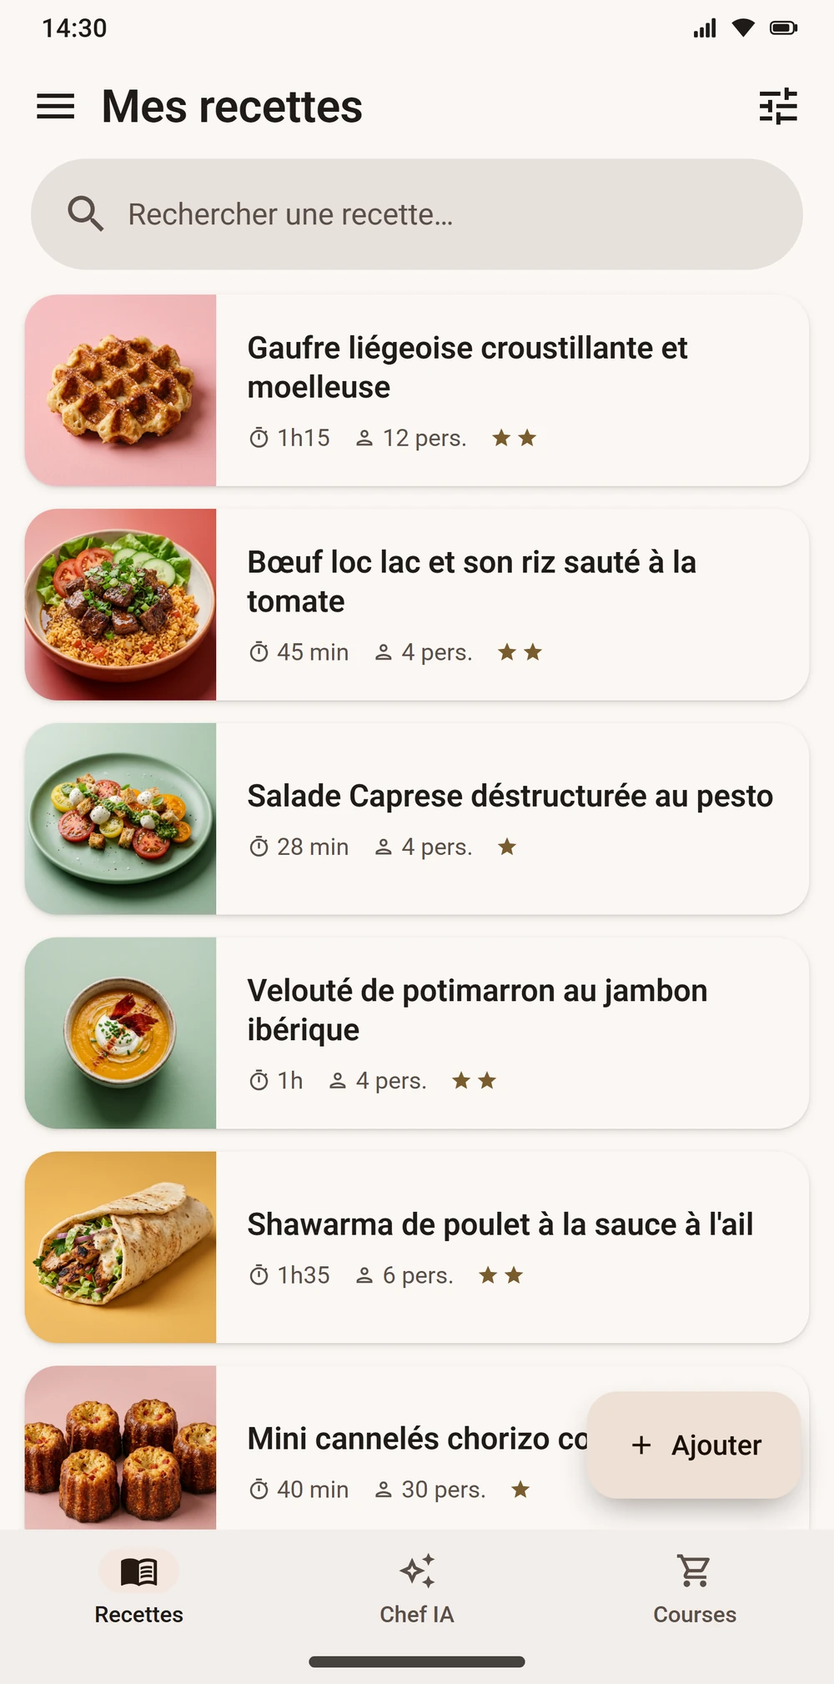
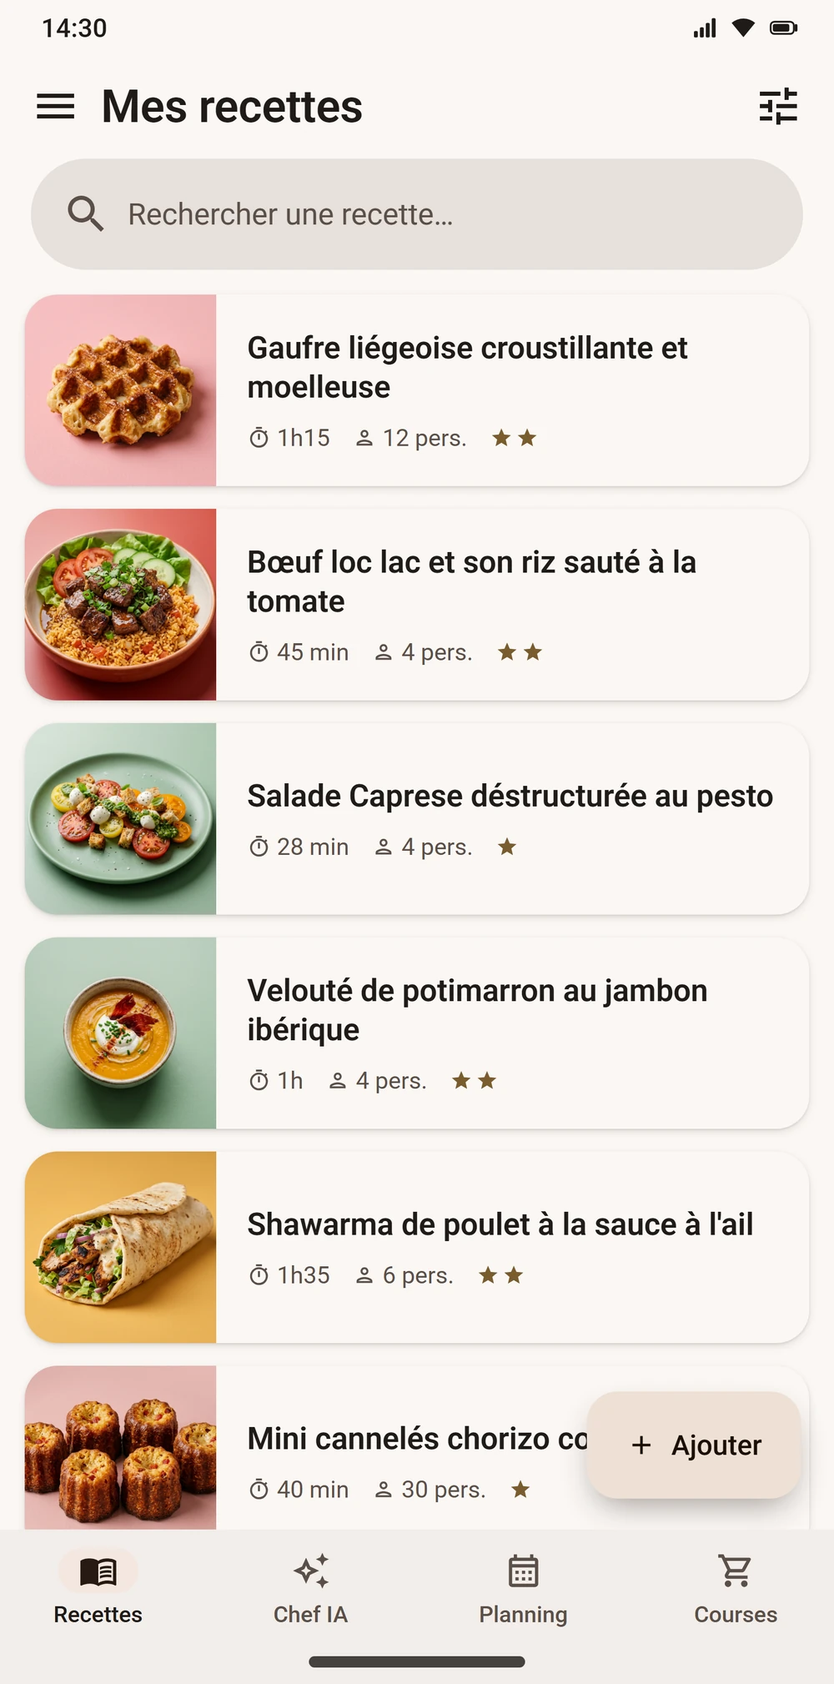
Le site présente le planning et les captures montrent les quatre onglets

diff --git a/it/index.html b/it/index.html
@@ -91,6 +91,7 @@
         "Modifica di una ricetta che hai già, chiesta in linguaggio naturale (vegetariana, senza forno, meno salata), con anteprima delle modifiche e originale conservato",
         "Assistente di cucina IA che conosce la ricetta in corso",
         "Modalità cucina passo dopo passo con timer per ogni passaggio",
+        "Piano pasti settimanale per pranzo e cena, composto con le tue ricette e collegato alla lista della spesa",
         "Lista della spesa ordinata automaticamente per reparto",
         "Condivisione in tempo reale di ricette, liste della spesa e chicche golose"
       ],
@@ -311,9 +312,10 @@
   .head{text-align:center;max-width:640px;margin:0 auto 52px}
   .head h2{font-size:clamp(1.9rem,3.6vw,2.6rem);margin-bottom:14px}
   .head p{color:var(--muted);font-size:1.08rem}
-  .features{display:grid;grid-template-columns:repeat(3,1fr);gap:20px}
-
-  .feat:last-child:nth-child(3n+1){grid-column:2}
+  .features{display:grid;grid-template-columns:repeat(6,1fr);gap:20px}
+  .feat{grid-column:span 2}
+  .feat:last-child:nth-child(3n+1){grid-column:3 / span 2}
+  .feat:nth-last-child(2):nth-child(3n+1){grid-column:2 / span 2}
   .feat{background:var(--surface);border:1px solid var(--line);border-radius:var(--r);padding:26px;
     box-shadow:var(--shadow);transition:transform .3s cubic-bezier(.2,.7,.2,1),box-shadow .3s}
   .feat:hover{transform:translateY(-5px);box-shadow:var(--shadow-lift)}
@@ -368,7 +370,7 @@
 
     .badges{justify-content:center;width:100%}
     .features{grid-template-columns:1fr 1fr}
-    .feat:last-child:nth-child(3n+1){grid-column:auto}
+    .feat,.feat:last-child:nth-child(3n+1),.feat:nth-last-child(2):nth-child(3n+1){grid-column:auto}
     .f-grid{grid-template-columns:1fr;gap:28px}
   }
   @media (max-width:560px){
@@ -462,6 +464,11 @@
           <div class="ic"><svg viewBox="0 0 24 24" fill="none" stroke="currentColor" stroke-width="1.7" stroke-linecap="round" stroke-linejoin="round"><circle cx="12" cy="13" r="8"></circle><path d="M12 9v4l2.5 2M9 2h6"></path></svg></div>
           <h3>Modalità cucina passo dopo passo</h3>
           <p>Passaggi a schermo intero, ingredienti richiamati al momento giusto, timer che suonano <strong>anche ad app chiusa o a telefono bloccato</strong>.</p>
+        </div>
+        <div class="feat reveal" style="transition-delay: 360ms;">
+          <div class="ic"><svg viewBox="0 0 24 24" fill="none" stroke="currentColor" stroke-width="1.7" stroke-linecap="round" stroke-linejoin="round"><rect x="3.5" y="4.5" width="17" height="17" rx="2.5"></rect><path d="M3.5 9.5h17M8 2.5v4M16 2.5v4"></path><path d="M8 13.5h.01M12 13.5h.01M16 13.5h.01M8 17.5h.01M12 17.5h.01M16 17.5h.01" stroke-width="2.3"></path></svg></div>
+          <h3>La tua settimana, già pronta</h3>
+          <p>Addio al «cosa mangiamo stasera?»: nel tuo piano pasti trovi tutta la settimana, pranzo e cena, <strong>con le tue ricette</strong>. E la lista della spesa va di pari passo, senza dimenticare niente.</p>
         </div>
         <div class="feat reveal" style="transition-delay: 360ms;">
           <div class="ic"><svg viewBox="0 0 24 24" fill="none" stroke="currentColor" stroke-width="1.7" stroke-linecap="round" stroke-linejoin="round"><path d="M6 6h15l-1.5 9h-12L5 3H2"></path><circle cx="9" cy="20" r="1.4"></circle><circle cx="18" cy="20" r="1.4"></circle></svg></div>

diff --git a/es/index.html b/es/index.html
@@ -91,6 +91,7 @@
         "Cambios en una receta que ya tienes, pedidos en lenguaje natural (vegetariana, sin horno, menos salada), con vista previa de los cambios y la original conservada",
         "Asistente de cocina con IA que conoce la receta en curso",
         "Modo cocina paso a paso con temporizador para cada paso",
+        "Plan semanal de comidas y cenas con tus propias recetas, conectado a la lista de la compra",
         "Lista de la compra ordenada automáticamente por secciones",
         "Uso compartido en tiempo real de recetas, listas de la compra y joyas gastronómicas"
       ],
@@ -311,9 +312,10 @@
   .head{text-align:center;max-width:640px;margin:0 auto 52px}
   .head h2{font-size:clamp(1.9rem,3.6vw,2.6rem);margin-bottom:14px}
   .head p{color:var(--muted);font-size:1.08rem}
-  .features{display:grid;grid-template-columns:repeat(3,1fr);gap:20px}
-
-  .feat:last-child:nth-child(3n+1){grid-column:2}
+  .features{display:grid;grid-template-columns:repeat(6,1fr);gap:20px}
+  .feat{grid-column:span 2}
+  .feat:last-child:nth-child(3n+1){grid-column:3 / span 2}
+  .feat:nth-last-child(2):nth-child(3n+1){grid-column:2 / span 2}
   .feat{background:var(--surface);border:1px solid var(--line);border-radius:var(--r);padding:26px;
     box-shadow:var(--shadow);transition:transform .3s cubic-bezier(.2,.7,.2,1),box-shadow .3s}
   .feat:hover{transform:translateY(-5px);box-shadow:var(--shadow-lift)}
@@ -368,7 +370,7 @@
 
     .badges{justify-content:center;width:100%}
     .features{grid-template-columns:1fr 1fr}
-    .feat:last-child:nth-child(3n+1){grid-column:auto}
+    .feat,.feat:last-child:nth-child(3n+1),.feat:nth-last-child(2):nth-child(3n+1){grid-column:auto}
     .f-grid{grid-template-columns:1fr;gap:28px}
   }
   @media (max-width:560px){
@@ -462,6 +464,11 @@
           <div class="ic"><svg viewBox="0 0 24 24" fill="none" stroke="currentColor" stroke-width="1.7" stroke-linecap="round" stroke-linejoin="round"><circle cx="12" cy="13" r="8"></circle><path d="M12 9v4l2.5 2M9 2h6"></path></svg></div>
           <h3>Modo cocina paso a paso</h3>
           <p>Pasos a pantalla completa, ingredientes recordados en el momento justo, temporizadores que suenan <strong>aunque cierres la app o bloquees el móvil</strong>.</p>
+        </div>
+        <div class="feat reveal" style="transition-delay: 360ms;">
+          <div class="ic"><svg viewBox="0 0 24 24" fill="none" stroke="currentColor" stroke-width="1.7" stroke-linecap="round" stroke-linejoin="round"><rect x="3.5" y="4.5" width="17" height="17" rx="2.5"></rect><path d="M3.5 9.5h17M8 2.5v4M16 2.5v4"></path><path d="M8 13.5h.01M12 13.5h.01M16 13.5h.01M8 17.5h.01M12 17.5h.01M16 17.5h.01" stroke-width="2.3"></path></svg></div>
+          <h3>Tu semana, ya organizada</h3>
+          <p>Olvídate del «¿qué comemos hoy?»: en tu plan semanal tienes toda la semana resuelta, comida y cena, <strong>con tus propias recetas</strong>. Y tu lista de la compra va a la par, sin que se te olvide nada.</p>
         </div>
         <div class="feat reveal" style="transition-delay: 360ms;">
           <div class="ic"><svg viewBox="0 0 24 24" fill="none" stroke="currentColor" stroke-width="1.7" stroke-linecap="round" stroke-linejoin="round"><path d="M6 6h15l-1.5 9h-12L5 3H2"></path><circle cx="9" cy="20" r="1.4"></circle><circle cx="18" cy="20" r="1.4"></circle></svg></div>

diff --git a/de/index.html b/de/index.html
@@ -91,6 +91,7 @@
         "Bestehende Rezepte auf Zuruf ändern, in normaler Sprache (vegetarisch, ohne Backofen, weniger Salz) – mit Vorschau der Änderungen und Erhalt des Originals",
         "Kontextbezogener KI-Kochassistent",
         "Schritt-für-Schritt-Kochmodus mit Timern pro Schritt",
+        "Essensplan für die Woche, mittags und abends, aus deinen eigenen Rezepten und direkt mit der Einkaufsliste verknüpft",
         "Einkaufsliste mit automatischer Sortierung nach Warengruppen",
         "Rezepte, Einkaufslisten und Feinkost-Tipps in Echtzeit teilen"
       ],
@@ -311,9 +312,10 @@
   .head{text-align:center;max-width:640px;margin:0 auto 52px}
   .head h2{font-size:clamp(1.9rem,3.6vw,2.6rem);margin-bottom:14px}
   .head p{color:var(--muted);font-size:1.08rem}
-  .features{display:grid;grid-template-columns:repeat(3,1fr);gap:20px}
-
-  .feat:last-child:nth-child(3n+1){grid-column:2}
+  .features{display:grid;grid-template-columns:repeat(6,1fr);gap:20px}
+  .feat{grid-column:span 2}
+  .feat:last-child:nth-child(3n+1){grid-column:3 / span 2}
+  .feat:nth-last-child(2):nth-child(3n+1){grid-column:2 / span 2}
   .feat{background:var(--surface);border:1px solid var(--line);border-radius:var(--r);padding:26px;
     box-shadow:var(--shadow);transition:transform .3s cubic-bezier(.2,.7,.2,1),box-shadow .3s}
   .feat:hover{transform:translateY(-5px);box-shadow:var(--shadow-lift)}
@@ -368,7 +370,7 @@
 
     .badges{justify-content:center;width:100%}
     .features{grid-template-columns:1fr 1fr}
-    .feat:last-child:nth-child(3n+1){grid-column:auto}
+    .feat,.feat:last-child:nth-child(3n+1),.feat:nth-last-child(2):nth-child(3n+1){grid-column:auto}
     .f-grid{grid-template-columns:1fr;gap:28px}
   }
   @media (max-width:560px){
@@ -462,6 +464,11 @@
           <div class="ic"><svg viewBox="0 0 24 24" fill="none" stroke="currentColor" stroke-width="1.7" stroke-linecap="round" stroke-linejoin="round"><circle cx="12" cy="13" r="8"></circle><path d="M12 9v4l2.5 2M9 2h6"></path></svg></div>
           <h3>Kochmodus Schritt für Schritt</h3>
           <p>Schritte im Vollbild, Zutaten im richtigen Moment eingeblendet, Timer, die klingeln <strong>auch bei geschlossener App oder gesperrtem Handy</strong>.</p>
+        </div>
+        <div class="feat reveal" style="transition-delay: 360ms;">
+          <div class="ic"><svg viewBox="0 0 24 24" fill="none" stroke="currentColor" stroke-width="1.7" stroke-linecap="round" stroke-linejoin="round"><rect x="3.5" y="4.5" width="17" height="17" rx="2.5"></rect><path d="M3.5 9.5h17M8 2.5v4M16 2.5v4"></path><path d="M8 13.5h.01M12 13.5h.01M16 13.5h.01M8 17.5h.01M12 17.5h.01M16 17.5h.01" stroke-width="2.3"></path></svg></div>
+          <h3>Deine Woche, schon geplant</h3>
+          <p>Schluss mit „Was essen wir heute?“: Dein Essensplan hält die ganze Woche fest, mittags wie abends, <strong>mit deinen eigenen Rezepten</strong>. Und deine Einkaufsliste zieht mit – nichts wird vergessen.</p>
         </div>
         <div class="feat reveal" style="transition-delay: 360ms;">
           <div class="ic"><svg viewBox="0 0 24 24" fill="none" stroke="currentColor" stroke-width="1.7" stroke-linecap="round" stroke-linejoin="round"><path d="M6 6h15l-1.5 9h-12L5 3H2"></path><circle cx="9" cy="20" r="1.4"></circle><circle cx="18" cy="20" r="1.4"></circle></svg></div>

diff --git a/fr/index.html b/fr/index.html
@@ -91,6 +91,7 @@
         "Modification d'une recette existante à la demande en langage naturel (végétarien, sans four, moins salé), avec aperçu des changements et conservation de l'originale",
         "Assistant IA culinaire contextuel",
         "Mode cuisine pas à pas avec minuteurs par étape",
+        "Planning des repas de la semaine, midi et soir, composé avec les recettes du carnet et relié à la liste de courses",
         "Liste de courses avec catégorisation automatique par rayon",
         "Partage de recettes, courses et bonnes adresses en temps réel"
       ],
@@ -311,9 +312,10 @@
   .head{text-align:center;max-width:640px;margin:0 auto 52px}
   .head h2{font-size:clamp(1.9rem,3.6vw,2.6rem);margin-bottom:14px}
   .head p{color:var(--muted);font-size:1.08rem}
-  .features{display:grid;grid-template-columns:repeat(3,1fr);gap:20px}
-
-  .feat:last-child:nth-child(3n+1){grid-column:2}
+  .features{display:grid;grid-template-columns:repeat(6,1fr);gap:20px}
+  .feat{grid-column:span 2}
+  .feat:last-child:nth-child(3n+1){grid-column:3 / span 2}
+  .feat:nth-last-child(2):nth-child(3n+1){grid-column:2 / span 2}
   .feat{background:var(--surface);border:1px solid var(--line);border-radius:var(--r);padding:26px;
     box-shadow:var(--shadow);transition:transform .3s cubic-bezier(.2,.7,.2,1),box-shadow .3s}
   .feat:hover{transform:translateY(-5px);box-shadow:var(--shadow-lift)}
@@ -368,7 +370,7 @@
 
     .badges{justify-content:center;width:100%}
     .features{grid-template-columns:1fr 1fr}
-    .feat:last-child:nth-child(3n+1){grid-column:auto}
+    .feat,.feat:last-child:nth-child(3n+1),.feat:nth-last-child(2):nth-child(3n+1){grid-column:auto}
     .f-grid{grid-template-columns:1fr;gap:28px}
   }
   @media (max-width:560px){
@@ -462,6 +464,11 @@
           <div class="ic"><svg viewBox="0 0 24 24" fill="none" stroke="currentColor" stroke-width="1.7" stroke-linecap="round" stroke-linejoin="round"><circle cx="12" cy="13" r="8"></circle><path d="M12 9v4l2.5 2M9 2h6"></path></svg></div>
           <h3>Mode cuisine pas à pas</h3>
           <p>Étapes en plein écran, ingrédients rappelés au bon moment, minuteurs qui sonnent <strong>même app fermée ou téléphone verrouillé</strong>.</p>
+        </div>
+        <div class="feat reveal" style="transition-delay: 360ms;">
+          <div class="ic"><svg viewBox="0 0 24 24" fill="none" stroke="currentColor" stroke-width="1.7" stroke-linecap="round" stroke-linejoin="round"><rect x="3.5" y="4.5" width="17" height="17" rx="2.5"></rect><path d="M3.5 9.5h17M8 2.5v4M16 2.5v4"></path><path d="M8 13.5h.01M12 13.5h.01M16 13.5h.01M8 17.5h.01M12 17.5h.01M16 17.5h.01" stroke-width="2.3"></path></svg></div>
+          <h3>Ta semaine, déjà prévue</h3>
+          <p>Fini le « qu'est-ce qu'on mange ce soir ? » : ton planning réunit tes repas de la semaine, midi et soir, <strong>avec tes propres recettes</strong>. Et ta liste de courses suit, sans rien oublier.</p>
         </div>
         <div class="feat reveal" style="transition-delay: 360ms;">
           <div class="ic"><svg viewBox="0 0 24 24" fill="none" stroke="currentColor" stroke-width="1.7" stroke-linecap="round" stroke-linejoin="round"><path d="M6 6h15l-1.5 9h-12L5 3H2"></path><circle cx="9" cy="20" r="1.4"></circle><circle cx="18" cy="20" r="1.4"></circle></svg></div>

diff --git a/en/index.html b/en/index.html
@@ -91,6 +91,7 @@
         "On-request editing of an existing recipe in plain language (vegetarian, no oven, less salt), with a preview of the changes and the original kept",
         "Contextual AI cooking assistant",
         "Step-by-step cooking mode with per-step timers",
+        "Weekly meal planner for lunch and dinner, built from your own recipes and linked to your shopping list",
         "Shopping list with automatic sorting by aisle",
         "Real-time sharing of recipes, shopping lists and food finds"
       ],
@@ -311,9 +312,10 @@
   .head{text-align:center;max-width:640px;margin:0 auto 52px}
   .head h2{font-size:clamp(1.9rem,3.6vw,2.6rem);margin-bottom:14px}
   .head p{color:var(--muted);font-size:1.08rem}
-  .features{display:grid;grid-template-columns:repeat(3,1fr);gap:20px}
-
-  .feat:last-child:nth-child(3n+1){grid-column:2}
+  .features{display:grid;grid-template-columns:repeat(6,1fr);gap:20px}
+  .feat{grid-column:span 2}
+  .feat:last-child:nth-child(3n+1){grid-column:3 / span 2}
+  .feat:nth-last-child(2):nth-child(3n+1){grid-column:2 / span 2}
   .feat{background:var(--surface);border:1px solid var(--line);border-radius:var(--r);padding:26px;
     box-shadow:var(--shadow);transition:transform .3s cubic-bezier(.2,.7,.2,1),box-shadow .3s}
   .feat:hover{transform:translateY(-5px);box-shadow:var(--shadow-lift)}
@@ -368,7 +370,7 @@
 
     .badges{justify-content:center;width:100%}
     .features{grid-template-columns:1fr 1fr}
-    .feat:last-child:nth-child(3n+1){grid-column:auto}
+    .feat,.feat:last-child:nth-child(3n+1),.feat:nth-last-child(2):nth-child(3n+1){grid-column:auto}
     .f-grid{grid-template-columns:1fr;gap:28px}
   }
   @media (max-width:560px){
@@ -462,6 +464,11 @@
           <div class="ic"><svg viewBox="0 0 24 24" fill="none" stroke="currentColor" stroke-width="1.7" stroke-linecap="round" stroke-linejoin="round"><circle cx="12" cy="13" r="8"></circle><path d="M12 9v4l2.5 2M9 2h6"></path></svg></div>
           <h3>Step-by-step cooking mode</h3>
           <p>Full-screen steps, ingredients recalled at the right moment, timers that ring <strong>even with the app closed or the phone locked</strong>.</p>
+        </div>
+        <div class="feat reveal" style="transition-delay: 360ms;">
+          <div class="ic"><svg viewBox="0 0 24 24" fill="none" stroke="currentColor" stroke-width="1.7" stroke-linecap="round" stroke-linejoin="round"><rect x="3.5" y="4.5" width="17" height="17" rx="2.5"></rect><path d="M3.5 9.5h17M8 2.5v4M16 2.5v4"></path><path d="M8 13.5h.01M12 13.5h.01M16 13.5h.01M8 17.5h.01M12 17.5h.01M16 17.5h.01" stroke-width="2.3"></path></svg></div>
+          <h3>Your week, planned ahead</h3>
+          <p>No more "what's for dinner?": your planner holds the week's lunches and dinners, <strong>made from your own recipes</strong>. And your shopping list follows along, with nothing forgotten.</p>
         </div>
         <div class="feat reveal" style="transition-delay: 360ms;">
           <div class="ic"><svg viewBox="0 0 24 24" fill="none" stroke="currentColor" stroke-width="1.7" stroke-linecap="round" stroke-linejoin="round"><path d="M6 6h15l-1.5 9h-12L5 3H2"></path><circle cx="9" cy="20" r="1.4"></circle><circle cx="18" cy="20" r="1.4"></circle></svg></div>

diff --git a/de/legal-notice/index.html b/de/legal-notice/index.html
@@ -155,9 +155,10 @@
   .head{text-align:center;max-width:640px;margin:0 auto 52px}
   .head h2{font-size:clamp(1.9rem,3.6vw,2.6rem);margin-bottom:14px}
   .head p{color:var(--muted);font-size:1.08rem}
-  .features{display:grid;grid-template-columns:repeat(3,1fr);gap:20px}
-
-  .feat:last-child:nth-child(3n+1){grid-column:2}
+  .features{display:grid;grid-template-columns:repeat(6,1fr);gap:20px}
+  .feat{grid-column:span 2}
+  .feat:last-child:nth-child(3n+1){grid-column:3 / span 2}
+  .feat:nth-last-child(2):nth-child(3n+1){grid-column:2 / span 2}
   .feat{background:var(--surface);border:1px solid var(--line);border-radius:var(--r);padding:26px;
     box-shadow:var(--shadow);transition:transform .3s cubic-bezier(.2,.7,.2,1),box-shadow .3s}
   .feat:hover{transform:translateY(-5px);box-shadow:var(--shadow-lift)}
@@ -212,7 +213,7 @@
 
     .badges{justify-content:center;width:100%}
     .features{grid-template-columns:1fr 1fr}
-    .feat:last-child:nth-child(3n+1){grid-column:auto}
+    .feat,.feat:last-child:nth-child(3n+1),.feat:nth-last-child(2):nth-child(3n+1){grid-column:auto}
     .f-grid{grid-template-columns:1fr;gap:28px}
   }
   @media (max-width:560px){

diff --git a/de/privacy/index.html b/de/privacy/index.html
@@ -155,9 +155,10 @@
   .head{text-align:center;max-width:640px;margin:0 auto 52px}
   .head h2{font-size:clamp(1.9rem,3.6vw,2.6rem);margin-bottom:14px}
   .head p{color:var(--muted);font-size:1.08rem}
-  .features{display:grid;grid-template-columns:repeat(3,1fr);gap:20px}
-
-  .feat:last-child:nth-child(3n+1){grid-column:2}
+  .features{display:grid;grid-template-columns:repeat(6,1fr);gap:20px}
+  .feat{grid-column:span 2}
+  .feat:last-child:nth-child(3n+1){grid-column:3 / span 2}
+  .feat:nth-last-child(2):nth-child(3n+1){grid-column:2 / span 2}
   .feat{background:var(--surface);border:1px solid var(--line);border-radius:var(--r);padding:26px;
     box-shadow:var(--shadow);transition:transform .3s cubic-bezier(.2,.7,.2,1),box-shadow .3s}
   .feat:hover{transform:translateY(-5px);box-shadow:var(--shadow-lift)}
@@ -212,7 +213,7 @@
 
     .badges{justify-content:center;width:100%}
     .features{grid-template-columns:1fr 1fr}
-    .feat:last-child:nth-child(3n+1){grid-column:auto}
+    .feat,.feat:last-child:nth-child(3n+1),.feat:nth-last-child(2):nth-child(3n+1){grid-column:auto}
     .f-grid{grid-template-columns:1fr;gap:28px}
   }
   @media (max-width:560px){

diff --git a/de/terms/index.html b/de/terms/index.html
@@ -155,9 +155,10 @@
   .head{text-align:center;max-width:640px;margin:0 auto 52px}
   .head h2{font-size:clamp(1.9rem,3.6vw,2.6rem);margin-bottom:14px}
   .head p{color:var(--muted);font-size:1.08rem}
-  .features{display:grid;grid-template-columns:repeat(3,1fr);gap:20px}
-
-  .feat:last-child:nth-child(3n+1){grid-column:2}
+  .features{display:grid;grid-template-columns:repeat(6,1fr);gap:20px}
+  .feat{grid-column:span 2}
+  .feat:last-child:nth-child(3n+1){grid-column:3 / span 2}
+  .feat:nth-last-child(2):nth-child(3n+1){grid-column:2 / span 2}
   .feat{background:var(--surface);border:1px solid var(--line);border-radius:var(--r);padding:26px;
     box-shadow:var(--shadow);transition:transform .3s cubic-bezier(.2,.7,.2,1),box-shadow .3s}
   .feat:hover{transform:translateY(-5px);box-shadow:var(--shadow-lift)}
@@ -212,7 +213,7 @@
 
     .badges{justify-content:center;width:100%}
     .features{grid-template-columns:1fr 1fr}
-    .feat:last-child:nth-child(3n+1){grid-column:auto}
+    .feat,.feat:last-child:nth-child(3n+1),.feat:nth-last-child(2):nth-child(3n+1){grid-column:auto}
     .f-grid{grid-template-columns:1fr;gap:28px}
   }
   @media (max-width:560px){

diff --git a/en/legal-notice/index.html b/en/legal-notice/index.html
@@ -155,9 +155,10 @@
   .head{text-align:center;max-width:640px;margin:0 auto 52px}
   .head h2{font-size:clamp(1.9rem,3.6vw,2.6rem);margin-bottom:14px}
   .head p{color:var(--muted);font-size:1.08rem}
-  .features{display:grid;grid-template-columns:repeat(3,1fr);gap:20px}
-
-  .feat:last-child:nth-child(3n+1){grid-column:2}
+  .features{display:grid;grid-template-columns:repeat(6,1fr);gap:20px}
+  .feat{grid-column:span 2}
+  .feat:last-child:nth-child(3n+1){grid-column:3 / span 2}
+  .feat:nth-last-child(2):nth-child(3n+1){grid-column:2 / span 2}
   .feat{background:var(--surface);border:1px solid var(--line);border-radius:var(--r);padding:26px;
     box-shadow:var(--shadow);transition:transform .3s cubic-bezier(.2,.7,.2,1),box-shadow .3s}
   .feat:hover{transform:translateY(-5px);box-shadow:var(--shadow-lift)}
@@ -212,7 +213,7 @@
 
     .badges{justify-content:center;width:100%}
     .features{grid-template-columns:1fr 1fr}
-    .feat:last-child:nth-child(3n+1){grid-column:auto}
+    .feat,.feat:last-child:nth-child(3n+1),.feat:nth-last-child(2):nth-child(3n+1){grid-column:auto}
     .f-grid{grid-template-columns:1fr;gap:28px}
   }
   @media (max-width:560px){

diff --git a/en/privacy/index.html b/en/privacy/index.html
@@ -155,9 +155,10 @@
   .head{text-align:center;max-width:640px;margin:0 auto 52px}
   .head h2{font-size:clamp(1.9rem,3.6vw,2.6rem);margin-bottom:14px}
   .head p{color:var(--muted);font-size:1.08rem}
-  .features{display:grid;grid-template-columns:repeat(3,1fr);gap:20px}
-
-  .feat:last-child:nth-child(3n+1){grid-column:2}
+  .features{display:grid;grid-template-columns:repeat(6,1fr);gap:20px}
+  .feat{grid-column:span 2}
+  .feat:last-child:nth-child(3n+1){grid-column:3 / span 2}
+  .feat:nth-last-child(2):nth-child(3n+1){grid-column:2 / span 2}
   .feat{background:var(--surface);border:1px solid var(--line);border-radius:var(--r);padding:26px;
     box-shadow:var(--shadow);transition:transform .3s cubic-bezier(.2,.7,.2,1),box-shadow .3s}
   .feat:hover{transform:translateY(-5px);box-shadow:var(--shadow-lift)}
@@ -212,7 +213,7 @@
 
     .badges{justify-content:center;width:100%}
     .features{grid-template-columns:1fr 1fr}
-    .feat:last-child:nth-child(3n+1){grid-column:auto}
+    .feat,.feat:last-child:nth-child(3n+1),.feat:nth-last-child(2):nth-child(3n+1){grid-column:auto}
     .f-grid{grid-template-columns:1fr;gap:28px}
   }
   @media (max-width:560px){

diff --git a/en/terms/index.html b/en/terms/index.html
@@ -155,9 +155,10 @@
   .head{text-align:center;max-width:640px;margin:0 auto 52px}
   .head h2{font-size:clamp(1.9rem,3.6vw,2.6rem);margin-bottom:14px}
   .head p{color:var(--muted);font-size:1.08rem}
-  .features{display:grid;grid-template-columns:repeat(3,1fr);gap:20px}
-
-  .feat:last-child:nth-child(3n+1){grid-column:2}
+  .features{display:grid;grid-template-columns:repeat(6,1fr);gap:20px}
+  .feat{grid-column:span 2}
+  .feat:last-child:nth-child(3n+1){grid-column:3 / span 2}
+  .feat:nth-last-child(2):nth-child(3n+1){grid-column:2 / span 2}
   .feat{background:var(--surface);border:1px solid var(--line);border-radius:var(--r);padding:26px;
     box-shadow:var(--shadow);transition:transform .3s cubic-bezier(.2,.7,.2,1),box-shadow .3s}
   .feat:hover{transform:translateY(-5px);box-shadow:var(--shadow-lift)}
@@ -212,7 +213,7 @@
 
     .badges{justify-content:center;width:100%}
     .features{grid-template-columns:1fr 1fr}
-    .feat:last-child:nth-child(3n+1){grid-column:auto}
+    .feat,.feat:last-child:nth-child(3n+1),.feat:nth-last-child(2):nth-child(3n+1){grid-column:auto}
     .f-grid{grid-template-columns:1fr;gap:28px}
   }
   @media (max-width:560px){

diff --git a/es/legal-notice/index.html b/es/legal-notice/index.html
@@ -155,9 +155,10 @@
   .head{text-align:center;max-width:640px;margin:0 auto 52px}
   .head h2{font-size:clamp(1.9rem,3.6vw,2.6rem);margin-bottom:14px}
   .head p{color:var(--muted);font-size:1.08rem}
-  .features{display:grid;grid-template-columns:repeat(3,1fr);gap:20px}
-
-  .feat:last-child:nth-child(3n+1){grid-column:2}
+  .features{display:grid;grid-template-columns:repeat(6,1fr);gap:20px}
+  .feat{grid-column:span 2}
+  .feat:last-child:nth-child(3n+1){grid-column:3 / span 2}
+  .feat:nth-last-child(2):nth-child(3n+1){grid-column:2 / span 2}
   .feat{background:var(--surface);border:1px solid var(--line);border-radius:var(--r);padding:26px;
     box-shadow:var(--shadow);transition:transform .3s cubic-bezier(.2,.7,.2,1),box-shadow .3s}
   .feat:hover{transform:translateY(-5px);box-shadow:var(--shadow-lift)}
@@ -212,7 +213,7 @@
 
     .badges{justify-content:center;width:100%}
     .features{grid-template-columns:1fr 1fr}
-    .feat:last-child:nth-child(3n+1){grid-column:auto}
+    .feat,.feat:last-child:nth-child(3n+1),.feat:nth-last-child(2):nth-child(3n+1){grid-column:auto}
     .f-grid{grid-template-columns:1fr;gap:28px}
   }
   @media (max-width:560px){
